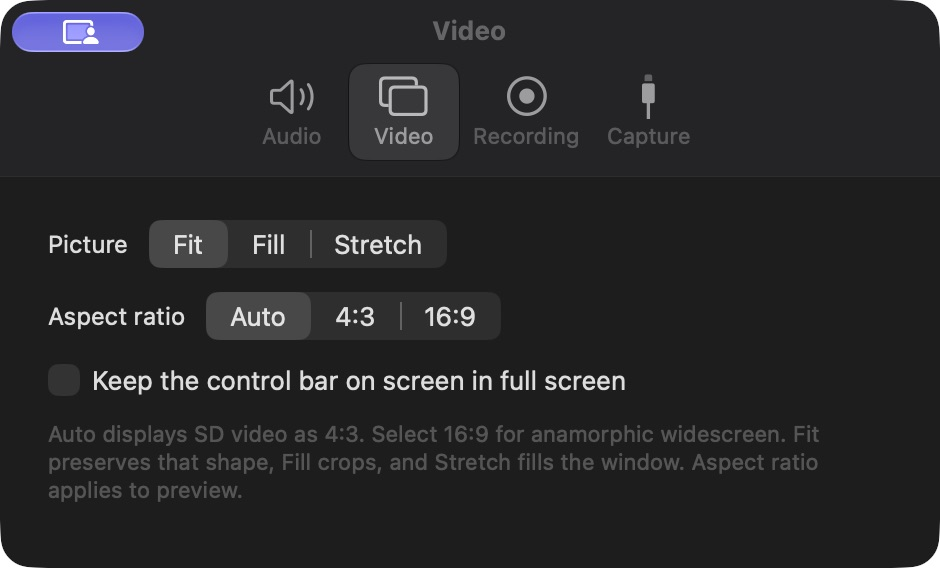
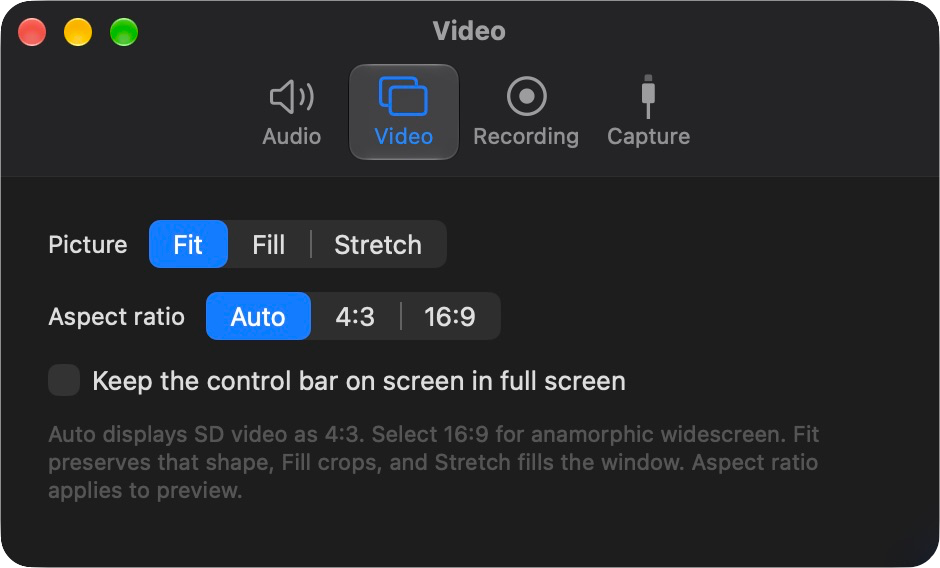
Replace README screenshots with clean cursor-free images

diff --git a/README.md b/README.md
@@ -24,7 +24,7 @@ Both can use the card at the same time, because one small background service
 owns the card and hands frames to each of them.
 
 <p align="center">
-  <img src="docs/images/app.png" width="800" alt="HD60 S Capture showing a Wii's HOME menu, with the input's resolution, Progressive scan label, frame rate and audio format in the top right and the control bar over the picture">
+  <img src="docs/images/app.png?v=2" width="800" alt="HD60 S Capture showing a Wii's HOME menu, with the input's resolution, Progressive scan label, frame rate and audio format in the top right and the control bar over the picture">
 </p>
 
 > **Made with AI.** The app, the USB driver, the OBS source and this README were
@@ -107,9 +107,9 @@ Settings (in the app menu, the slider icon in the bar, or **Command-comma**) has
 | **Capture** | What the card and the signal are doing right now, and a button to update the OBS source. |
 
 <p align="center">
-  <img src="docs/images/settings-audio.png" width="420" alt="Audio settings">
-  <img src="docs/images/settings-video.png" width="420" alt="Video settings with Fit, Fill and Stretch plus Auto, 4:3 and 16:9 aspect controls">
-  <img src="docs/images/settings-capture.png" width="420" alt="Capture settings, showing the card connected and a 720 × 480 signal at 59.94 fps">
+  <img src="docs/images/settings-audio.png?v=2" width="420" alt="Audio settings">
+  <img src="docs/images/settings-video.png?v=2" width="420" alt="Video settings with Fit, Fill and Stretch plus Auto, 4:3 and 16:9 aspect controls">
+  <img src="docs/images/settings-capture.png?v=2" width="420" alt="Capture settings, showing the card connected and a 720 × 480 signal at 59.94 fps">
 </p>
 
 Auto aspect ratio displays 720- or 1440-sample SD inputs as 4:3. Choose 16:9
